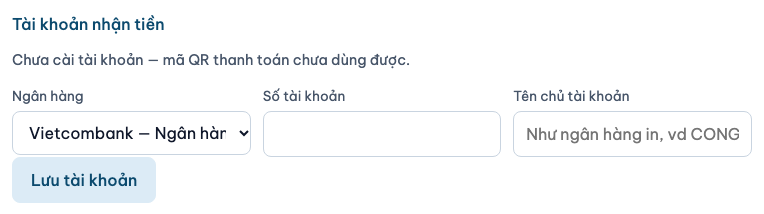
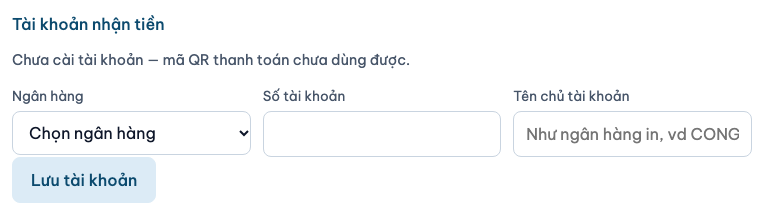
Bằng chứng vá vòng 1 Task 11: ảnh chụp lại, ảnh lỗi trong mục ở 390, sổ thi công

Changed region(s): [[0.0301, 0.5888, 0.301, 0.6729]]

diff --git a/docs/superpowers/plans/2026-10-08-qr-thanh-toan-thi-cong-nhat-ky.md b/docs/superpowers/plans/2026-10-08-qr-thanh-toan-thi-cong-nhat-ky.md
@@ -19,6 +19,7 @@ Chủ dự án duyệt kế hoạch 2026-10-08; thi công kiểu "mỗi bước 
 | 2026-10-08 | 10 (ruling T10-b + I3, sửa kịch bản trong kho) | **I3** `docs/evidence/2026-10-05-nam-loi-tien/kich-ban/coc-don-huy-smoke.mjs`: lần ghi CK – Công ty thu của Kế toán thêm `maGiaoDich: "FTCOC0001"` + `soThucChuyen: 500000` (đúng số lần thu; khuôn Task 7 ở `tests/e2e/coc-don-huy.mjs`), không đổi khẳng định nào; chạy xanh (4 bước). **T10-b** `docs/evidence/2026-09-29-so-tien-luot-1/kich-ban/so-tien-smoke.mjs`: `tien2()` đọc bằng tài khoản Toàn quyền (`ACCOUNTS.chu`) thay vì Kế toán — đăng nhập lại Kế toán thay phiên của trang Kế toán đang mở (ADR-0074, `bi_thay`) và đá trang đó về `/login`. **Vượt chữ của ruling, báo rõ:** thêm BA lần chờ hàng xác nhận ĐÓNG sau ghi (xác nhận CK, ghi hoàn, đã nộp) — nút mở hàng biến mất ngay khi hàng mở nên mốc chờ cũ `!querySelector(nút)` qua trước khi máy chủ ghi xong; lần chạy đầu với riêng `tien2()` đã đỏ chập chờn ở khẳng định cuối ("không còn ai giữ tiền…"). Chỉ thêm chờ, không đổi khẳng định nào; sau đó xanh 3/3 lần chạy liên tiếp (mỗi lần 4 bước). | `docs/evidence/2026-09-29-so-tien-luot-1/kich-ban/so-tien-smoke.mjs`; `docs/evidence/2026-10-05-nam-loi-tien/kich-ban/coc-don-huy-smoke.mjs` |
 | 2026-10-08 | 10 (kịch bản nháp) | Hai kịch bản nháp của Task 10 (`qr-chup.mjs`, `qr-ma.mjs`) KHÔNG vào kho (ruling: `qr-smoke.mjs` là của Task 12; đường chạy của chúng còn dựa vào thư mục nháp và tệp axe ngoài kho `AXE_JS`). Bản sao để người làm Task 12 nâng khẳng định vào `qr-smoke.mjs`: `.superpowers/sdd/2026-10-08-qr-thanh-toan-ke-hoach/task-10-kich-ban-nhap/` (thư mục bị `.git/info/exclude` loại, không phải kho). | — |
 | 2026-10-08 | 11 | Danh bạ (`web/parties.ts`): mục "Tài khoản nhận tiền" (`veTaiKhoanNhanTien`, khai ở `openDetail` sau `giayTo`) — chỉ khi `can(me, "company.legal.write")` VÀ hồ sơ đang giữ vai Công ty chủ (`laChu`); xem tài khoản đang dùng (`ngân hàng · số · tên`) hoặc câu "Chưa cài tài khoản — mã QR thanh toán chưa dùng được."; ba ô (ngân hàng, số, tên chủ — `#tknt-so`, `#tknt-ten`, 16px) + nút "Lưu tài khoản" / "Đổi tài khoản"; đổi có hộp hỏi lại, lần cài đầu không hỏi; gửi `truocDo` = id dòng đang mở, 409 `stale` đi qua `act(…, onStale)` nạp lại rồi hiện câu "đã cũ"; lỗi tải mục hiện câu của máy chủ trong khung cảnh báo. Số tài khoản chỉ đọc từ máy chủ, không `console`, không lên đường dẫn. `XAC_NHAN_DOI_CONG_TY_CHU` thêm câu nhắc kiểm mục này. `so-do-trang.ts` sinh lại (thêm tiêu đề "Tài khoản nhận tiền"). **Lệch brief: không** — tên trường của `TaiKhoanNhanTienResponse` khớp từng chữ với brief; `select`, `button`, `field`, `input`, `act`, `errorEl`, `showError` đều có sẵn đúng chữ ký (`act(fn, btn, onStale)` bắt `code === "stale"`, đúng mã máy chủ trả); trailer commit `Claude Sonnet 5.5` theo điều phối (brief ghi Opus 5.5). **Chrome (Bước 5), Chrome macOS + axe 4.13 lấy từ cache npm ngoài kho, D1 tạm, không `--remote`, đặt `OUT` ra scratchpad để khỏi ghi đè ảnh trong kho (riêng bước A2 của `t2b` luôn ghi vào `docs/evidence/2026-10-01-tro-ly-mai/anh/` — hai ảnh bị ghi đè đã `git checkout` về như cũ):** `t2b-danh-ba-smoke` XANH (A, A2, B — gồm đổi công ty chủ thật sang hồ sơ mới, khi đó hồ sơ mới hiện mục mới, axe sạch ở 1040 + 390); `vai-smoke` XANH; `dot-a-smoke` ĐỎ ở bước "nhat-ky: thẻ đã dựng xong (máy tính)" sau đúng 8 bước ✓ (đã qua bước `ho-so` — chính trang Danh bạ) — **ĐỎ Y HỆT Ở HEAD sạch 0089743d** (bản chép `git archive` ở scratchpad: cùng 8 ✓, cùng bước đỏ; đã ghi sẵn ở `web/CLAUDE.md` là đỏ từ ADR-0038, thuộc trang `/audit`, không liên quan Danh bạ). **Kịch bản nháp Task 11 (scratchpad, KHÔNG vào kho; bản sao ở `.superpowers/sdd/2026-10-08-qr-thanh-toan-ke-hoach/task-11-kich-ban-nhap/` để Task 12 nâng vào `qr-smoke.mjs` — dùng sẵn `#tknt-so`, `#tknt-ten`, `[data-khoi="tknt-hien-tai"]`) XANH:** Quản trị mở công ty chủ không có mục và máy chủ 403; Toàn quyền: hồ sơ tổ chức khác không có mục, công ty chủ chưa cài → câu "Chưa cài tài khoản…", 30 ngân hàng, ba ô 16px, bỏ trống → câu "Nhập số tài khoản và tên chủ tài khoản." không gọi máy chủ; lưu → dòng "Vietcombank · số · TÊN IN HOA" (máy chủ chuẩn hoá tên), nút đổi thành "Đổi tài khoản", ô nhập về trống, nhật ký chỉ "cài tài khoản nhận tiền" (không số); đổi → hộp hỏi lại, Huỷ = không ghi, Đồng ý = dòng cũ đóng + dòng mới mở, nhật ký "đổi tài khoản nhận tiền"; người khác đổi giữa chừng → bấm Đổi ở trang cũ nhận câu "Hồ sơ vừa được người khác thay đổi nên bản đang xem đã cũ…" và bản mới được nạp, vẫn đúng một dòng mở; lỗi tải mục (409 giả) → khung cảnh báo có câu máy chủ, không ô nhập; axe 0 lỗi nặng ở 1040 + 390 (cả chưa cài lẫn đã cài). Ảnh: `docs/evidence/2026-10-08-qr-thanh-toan/tai-khoan-nhan-tien-chua-cai-1040.png`, `…-chua-cai-390.png`, `…-da-cai-1040.png`, `…-da-cai-390.png`. **Phát hiện, KHÔNG sửa (ngoài phạm vi):** ở 390 cả trang Danh bạ của hồ sơ công ty chủ đã tràn ngang SẴN (`scrollWidth` 580 so với 390) do bảng "Công việc tại đâu" (`table.items`, ba dòng; các ô ngoài mục mới) — mục mới nằm trọn trong khung. Nhãn ô ngân hàng dài ("Vietcombank — Ngân hàng TMCP …") bị cắt ở ô chọn (cả 1040 lẫn 390), chọn được nhưng không đọc hết nhãn khi đóng. `showError` (`web/shell.ts`) không cuộn: lỗi của mục (bỏ trống, 400/409 khi lưu, câu "đã cũ") hiện ở `#error` đầu trang, có thể nằm ngoài màn hình điện thoại khi nút ở cuối hồ sơ — cùng loại điểm I2 của Task 10 ở màn đơn; brief ghi đúng khuôn `showError`/`act` có sẵn nên không đổi (khuôn dùng chung toàn trang Danh bạ). **Chưa kiểm:** `npm run test:e2e` (không chạm API/migration), người kiểm độc lập (Task 13). | task-11-report.md; `npm run build:web` + `npm run typecheck` 0 lỗi + `npm test` xanh (3438 / 0 đỏ / 2 todo cũ; bài đo giờ của hook xanh 1/1) |
+| 2026-10-08 | 11 (vá vòng 1, ruling T11-a) | Người kiểm task: đạt đặc tả, không lộ số tài khoản, yêu cầu đổi một điểm (I1) và ba điểm nhỏ (M1, M2, M6); ruling T11-a: làm cả bốn. **I1** (`web/parties.ts`, `veTaiKhoanNhanTien`): mọi thông báo của mục hiện TRONG mục, không qua `#error` đầu trang. Cách làm nhỏ nhất đúng: mục tự gọi `api()` cho PUT thay vì qua `act()` (`act` luôn đẩy lỗi lên `#error` toàn trang và là khuôn dùng chung của mọi mục Danh bạ nên KHÔNG đổi `act`/`fail`/`showError`); nút khoá đúng kiểu `act` (`if (b.disabled) return` → `b.disabled = true` → mở lại ở `finally`). Khung `khuTin` đặt NGAY TRÊN nút (để ở 390 câu báo và nút cùng một màn hình — đo 732–782 và 844 trên màn 844), dòng báo dựng lại mỗi lần: lỗi = `.alert.danger` + `role="alert"`; đã lưu = `.alert.ok` + `role="status"`; đã cũ = `.alert.warn` + `role="status"` — cả ba lớp đã có sẵn ở `public/app.css`, KHÔNG thêm CSS. Bỏ trống / chưa chọn ngân hàng / 400 / 409 khác / mất mạng → dòng đỏ trong mục, giữ số đã gõ, nút mở lại. `stale` → vẽ lại mục từ GET + dòng cát "Có người vừa đổi tài khoản nhận tiền nên bản bạn đang xem đã cũ. Các ô nhập đã được xoá trắng — hãy xem dòng tài khoản hiện tại ở trên, rồi nhập lại nếu vẫn cần đổi." Thành công → vẽ lại từ CHÍNH phản hồi PUT (cùng dạng GET: bớt một lần gọi, và không có chuyện GET hỏng ngay sau khi đã ghi) + "Đã lưu tài khoản nhận tiền." **M1**: `h3#tknt-title` có `tabindex=-1`; `veTaiKhoanNhanTien(sec, p, tin?, daLuu?)` — có `tin` nghĩa là vẽ lại SAU một lần lưu ⇒ `tieuDe.focus()` (lần vẽ đầu không cướp tiêu điểm). **M2**: chưa có tài khoản (hoặc ngân hàng đang dùng đã ngưng) ⇒ ô chọn bắt đầu bằng "Chọn ngân hàng" (giá trị rỗng); bấm Lưu khi chưa chọn → "Chọn ngân hàng nhận tiền." trong mục, chưa gửi gì; đổi tài khoản vẫn chọn sẵn ngân hàng đang dùng (không có ô trống). **M6**: câu hỏi lại nay "…mã QR mới sẽ chuyển tiền về tài khoản mới; tài khoản cũ được lưu lại trong lịch sử." Điểm "`showError` không cuộn" ở dòng Task 11 phía trên nay chỉ còn đúng với các mục KHÁC của Danh bạ; mục này không dùng `#error`. `so-do-trang.ts` không đổi (không thêm nhãn h2/h3/button). **Chrome (lại), cùng môi trường như dòng Task 11:** `t2b-danh-ba-smoke` XANH; `vai-smoke` XANH; kịch bản nháp mở rộng (bản sao ở `.superpowers/sdd/2026-10-08-qr-thanh-toan-ke-hoach/task-11-kich-ban-nhap/`, chưa vào kho) XANH ở 390 + 1040 với các ca mới: ô đầu "Chọn ngân hàng" và giá trị rỗng, chưa chọn ngân hàng / bỏ trống ô → câu hiện trong mục + `#error` vẫn ẩn + đếm PUT bằng 0, 400 của máy chủ ("Số tài khoản chỉ gồm chữ số (4–19 số).") hiện trong mục ở 390 cùng màn hình với nút, giữ số đã gõ, nút mở lại, D1 không ghi; "Đã lưu tài khoản nhận tiền." và tiêu điểm về tiêu đề sau cài lẫn sau đổi; lần vẽ đầu không cướp tiêu điểm; Huỷ hộp hỏi → chưa gửi; bấm đúp → đúng một PUT; "đã cũ" hiện trong mục (kiểu cát), ô nhập xoá trắng, bản của người khác được nạp, `#error` ẩn, tiêu điểm về tiêu đề; câu hỏi lại đúng chữ M6; axe 0 lỗi nặng cả khi đang hiện câu báo. Hai kịch bản bắt buộc còn lại không thay đổi so với dòng Task 11 (`dot-a-smoke` đỏ sẵn, không chạm). Ảnh chụp lại: `docs/evidence/2026-10-08-qr-thanh-toan/tai-khoan-nhan-tien-{chua-cai,da-cai}-{390,1040}.png` (chưa cài nay có ô "Chọn ngân hàng"; đã cài 1040 hiện dòng "Đã lưu…") + mới `tai-khoan-nhan-tien-loi-390.png` (lỗi 400 trong mục ở 390). Chưa kiểm: `npm run test:e2e` (không chạm API/migration). | task-11-report.md mục "Fix round 1"; `npm run build:web` + `npm run typecheck` 0 lỗi + `npm test` xanh (3438 / 0 đỏ / 2 todo cũ; bài đo giờ của hook 1/1) |
 
 ## Quan sát chặn thật (P16)
 | Hàng rào | Đột biến cố ý | Thông báo đỏ | Hoàn nguyên |
@@ -55,3 +56,6 @@ Chủ dự án duyệt kế hoạch 2026-10-08; thi công kiểu "mỗi bước 
 | (kịch bản nháp Task 10, chưa vào kho — KHÔNG phải hàng rào) Số trả trước gõ sớm bị xoá khi ba ô bị ẩn (I1) | Bỏ dòng `field("prepaidAmount").value = ""` trong khối ẩn của `web/order-form.ts` (2026-10-08) | Đỏ ở E2 — «sau khi ẩn: số đã gõ bị xoá, tóm tắt hết dòng Trả trước» (ô còn `500.000`) | Khôi phục; `cmp` khớp. Chưa có bài khoá riêng việc ĐỌC cờ `traTruocAn` ở `validate`/`luu` (cần ca bấm Lưu của Toàn quyền; xem báo cáo) — dựa vào kỷ luật |
 | (kịch bản nháp Task 11, chưa vào kho — KHÔNG phải hàng rào; chỗ ẩn/hiện của giao diện, máy chủ vẫn là cổng thật) Mục "Tài khoản nhận tiền" chỉ hiện cho người giữ ô `company.legal.write` | Bỏ `can(me, "company.legal.write") &&` khỏi dòng `const taiKhoan = …` của `web/parties.ts` (2026-10-08) | Kịch bản `tknt-mut.mjs` đỏ ở bước A — «Quản trị: công ty chủ KHÔNG có mục Tài khoản nhận tiền» (thực tế `true`) | `git checkout -- web/parties.ts`; `git diff --quiet` sạch; chạy lại xanh |
 | (kịch bản nháp Task 11, chưa vào kho — KHÔNG phải hàng rào) Mục chỉ hiện trên hồ sơ ĐANG là công ty chủ | Bỏ `&& laChu` khỏi cùng dòng (2026-10-08) | Kịch bản `tknt-mut.mjs` đỏ ở bước B — «hồ sơ tổ chức KHÔNG phải công ty chủ: không có mục» (thực tế `true`; mục hiện khung lỗi 409 của máy chủ) | Khôi phục như trên; chạy lại xanh |
+| (kịch bản nháp Task 11 vá vòng 1, chưa vào kho — KHÔNG phải hàng rào) Ô ngân hàng của lần cài đầu bắt đầu bằng "Chọn ngân hàng", không mặc định ngân hàng đầu danh sách (M2) | Bỏ ô trống "Chọn ngân hàng" và để `select` rơi về mục đầu (`undefined` thay `""`) trong `veTaiKhoanNhanTien` (2026-10-08) | Đỏ ở B — «30 ngân hàng + ô trống 'Chọn ngân hàng'» (thực tế 30, mong 31) | Chép lại bản trước đột biến (`cmp` giống từng byte); chạy lại xanh |
+| (kịch bản nháp Task 11 vá vòng 1 — KHÔNG phải hàng rào) Tiêu điểm về tiêu đề mục sau khi lưu (M1) | Bỏ dòng `if (tin) tieuDe.focus();` cuối `veTaiKhoanNhanTien` (2026-10-08) | Đỏ ở D1 — «M1: tiêu điểm về tiêu đề mục sau khi lưu» (thực tế `''`, mong `'tknt-title'`) | Khôi phục; `cmp` khớp |
+| (kịch bản nháp Task 11 vá vòng 1 — KHÔNG phải hàng rào) Lỗi máy chủ của mục hiện TRONG mục, không lên `#error` (I1) | Thay nhánh `datTin({ kieu: "loi", … })` của lỗi máy chủ bằng `fail(err)` (đẩy lên `#error`) (2026-10-08) | Đỏ ở E — «hết giờ chờ: lỗi 400 của máy chủ hiện trong mục» (mục không có `.alert`) | Khôi phục; `cmp` khớp |
